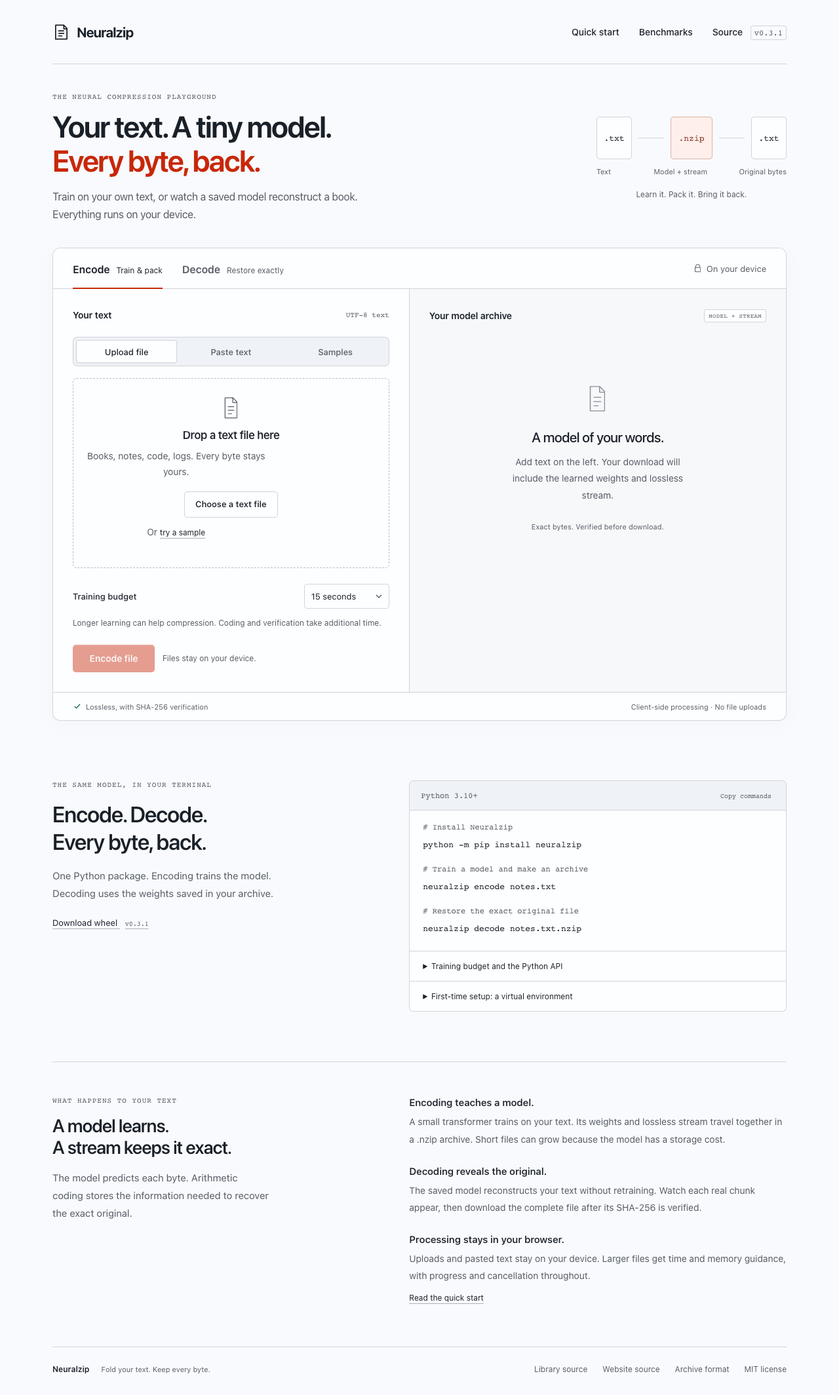
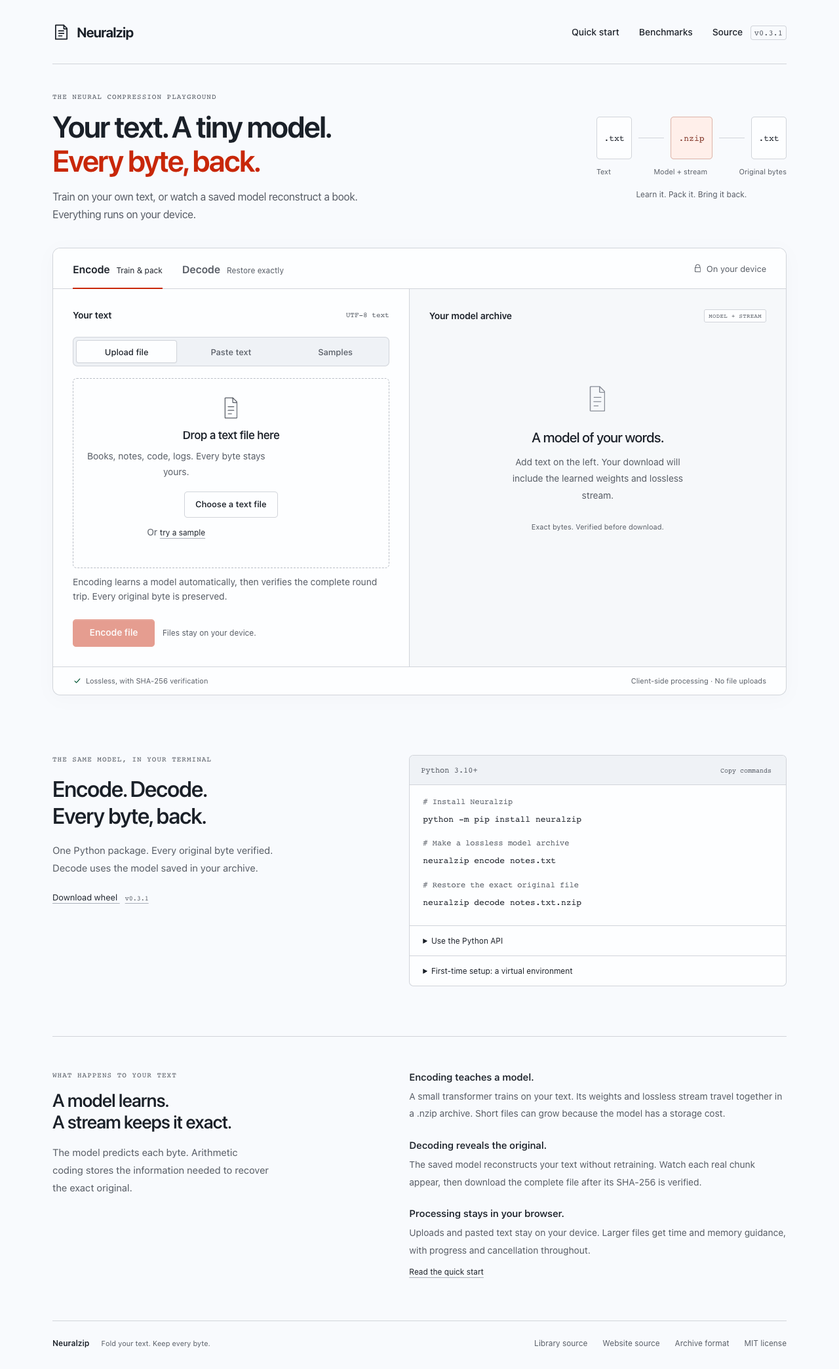
Replace browser training budgets with automatic convergence

diff --git a/app/docs/page.jsx b/app/docs/page.jsx
@@ -3,5 +3,5 @@ import { asset, WHEEL } from '../../lib/paths';
 
 export const metadata = { title: 'Quick start · Neuralzip' };
 export default function Docs() {
-  return <><Header/><main className="page-width docs-content" id="workspace"><p className="eyebrow">QUICK START</p><h1>One model archive.<br/>Two commands.</h1><p className="docs-lead">Neuralzip compresses text using a model trained on that text. Encoding trains and writes an archive; decoding uses its saved weights to restore the original bytes.</p><section><h2>Install once</h2><p>Python 3.10 or newer is required. Create a virtual environment to keep dependencies separate:</p><pre><code>{'python3 -m venv .venv\nsource .venv/bin/activate'}</code></pre><p>On Windows PowerShell, use <code>py -m venv .venv</code> and <code>{'.\\.venv\\Scripts\\Activate.ps1'}</code>.</p><p><a className="text-button" href={asset('downloads/' + WHEEL)} download>Download the Python wheel</a>, or install directly from PyPI:</p><pre><code>{`python -m pip install neuralzip`}</code></pre><p>The installation includes PyTorch, NumPy and the embedded decoding engine. Python defaults to one CPU training thread and one coding worker. Use --device mps or --device cuda to opt into GPU training. Training runs in its own process, releasing its memory before coding.</p></section><section><h2>Encode and decode</h2><pre><code>{'neuralzip encode notes.txt\nneuralzip decode notes.txt.nzip'}</code></pre><p>Encoding creates <code>notes.txt.nzip</code>. Decoding restores the original name, or uses <code>notes.restored.txt</code> if it already exists. Existing files stay safe.</p><p>Encoding uses 60 seconds of training by default, followed by stream encoding and a verification decode. Set a different budget:</p><pre><code>{'neuralzip encode notes.txt --seconds 120\nneuralzip decode notes.txt.nzip -o recovered.txt'}</code></pre></section><section><h2>Watch the work</h2><p>Both the terminal and browser show the current stage, elapsed time and completed chunks. The terminal heartbeat keeps moving during long native operations. Cancel with Ctrl+C in the terminal or the Cancel button in the browser.</p></section><section><h2>Use Python directly</h2><pre><code>{'from neuralzip import encode, decode, encode_file, decode_file\n\narchive = encode(b"Keep every byte.", seconds=60)\nassert decode(archive) == b"Keep every byte."\n\npath = encode_file("notes.txt")\nrestored = decode_file(path)'}</code></pre></section><section><h2>Paste text or choose a sample</h2><p>Under Encode, choose Paste text to type or paste into the editor. The counter measures UTF-8 bytes. Upload an existing text file when its original byte encoding and line endings matter. The Samples tab includes short classics, structured logs and multilingual text.</p></section><section><h2>Watch a model reconstruct a book</h2><p>Under Decode, upload an archive or choose a title from Book library. Enable Watch reconstruction, then choose Decode archive. Actual decoded chunks appear in order. Pause and resume between chunks, adjust the reveal speed, or follow the latest text. The full output is verified before the download becomes available.</p></section><section><h2>What is inside?</h2><p>A .nzip archive contains model weights, an arithmetic-coded stream, settings and the original SHA-256 checksum. The stream carries the information needed to correct the model&apos;s uncertainty. Restored bytes are checked before saving. There is no gzip encoding option or automatic conventional fallback.</p><p>Very short or difficult text can produce a larger model archive. You still receive the actual model archive, with its real size reported.</p></section><section><h2>File sizes and runtime</h2><div className="table-scroll" tabIndex="0" aria-label="Implementation limits"><table><thead><tr><th>Operation</th><th>Size and behavior</th></tr></thead><tbody><tr><td>Browser encoding</td><td>Files over 1 MB show time and memory guidance; larger files are allowed</td></tr><tr><td>Python encoding and decoding</td><td>16 MiB</td></tr><tr><td>Browser training budget</td><td>15, 30 or 60 seconds</td></tr><tr><td>Python training budget</td><td>1 to 3,600 seconds</td></tr></tbody></table></div><p>The browser uses a small two-layer transformer. Python uses a four-layer preset. Archives are compatible across both decoders. Browser jobs have no two-minute timeout or fixed 1 MB cutoff. Browser memory, buffer capacity and the archive’s chunk-address space still impose technical limits. Python 0.3.1 retains its 16 MiB bound. Large browser archives can therefore exceed that Python decoder’s supported size.</p><a className="text-button" href={asset('FORMAT.txt')}>Read the archive specification</a></section></main><Footer/></>;
+  return <><Header/><main className="page-width docs-content" id="workspace"><p className="eyebrow">QUICK START</p><h1>One model archive.<br/>Two commands.</h1><p className="docs-lead">Neuralzip compresses text using a model trained on that text. Encoding trains and writes an archive; decoding uses its saved weights to restore the original bytes.</p><section><h2>Install once</h2><p>Python 3.10 or newer is required. Create a virtual environment to keep dependencies separate:</p><pre><code>{'python3 -m venv .venv\nsource .venv/bin/activate'}</code></pre><p>On Windows PowerShell, use <code>py -m venv .venv</code> and <code>{'.\\.venv\\Scripts\\Activate.ps1'}</code>.</p><p><a className="text-button" href={asset('downloads/' + WHEEL)} download>Download the Python wheel</a>, or install directly from PyPI:</p><pre><code>{`python -m pip install neuralzip`}</code></pre><p>The installation includes PyTorch, NumPy and the embedded decoding engine. Python defaults to one CPU training thread and one coding worker. Use --device mps or --device cuda to opt into GPU training. Training runs in its own process, releasing its memory before coding.</p></section><section><h2>Encode and decode</h2><pre><code>{'neuralzip encode notes.txt\nneuralzip decode notes.txt.nzip'}</code></pre><p>Encoding creates <code>notes.txt.nzip</code>. Decoding restores the original name, or uses <code>notes.restored.txt</code> if it already exists. Existing files stay safe.</p><p>Encoding learns a model, writes a lossless stream and verifies a complete decode before saving. Restored content is always byte-for-byte identical:</p><pre><code>{'neuralzip encode notes.txt\nneuralzip decode notes.txt.nzip -o recovered.txt'}</code></pre></section><section><h2>Always lossless</h2><p>There is no accuracy or quality setting. Browser training stops automatically when learning stabilizes, not when a timer expires. The arithmetic-coded stream preserves the information needed to restore every byte, even when model predictions are imperfect. A full verification decode must match the original SHA-256 before you receive an archive.</p></section><section><h2>Watch the work</h2><p>Both the terminal and browser show the current stage, elapsed time and completed chunks. The terminal heartbeat keeps moving during long native operations. Cancel with Ctrl+C in the terminal or the Cancel button in the browser.</p></section><section><h2>Use Python directly</h2><pre><code>{'from neuralzip import encode, decode, encode_file, decode_file\n\narchive = encode(b"Keep every byte.")\nassert decode(archive) == b"Keep every byte."\n\npath = encode_file("notes.txt")\nrestored = decode_file(path)'}</code></pre></section><section><h2>Paste text or choose a sample</h2><p>Under Encode, choose Paste text to type or paste into the editor. The counter measures UTF-8 bytes. Upload an existing text file when its original byte encoding and line endings matter. The Samples tab includes short classics, structured logs and multilingual text.</p></section><section><h2>Watch a model reconstruct a book</h2><p>Under Decode, upload an archive or choose a title from Book library. Enable Watch reconstruction, then choose Decode archive. Actual decoded chunks appear in order. Pause and resume between chunks, adjust the reveal speed, or follow the latest text. The full output is verified before the download becomes available.</p></section><section><h2>What is inside?</h2><p>A .nzip archive contains model weights, an arithmetic-coded stream, settings and the original SHA-256 checksum. The stream carries the information needed to correct the model&apos;s uncertainty. Restored bytes are checked before saving. There is no gzip encoding option or automatic conventional fallback.</p><p>Very short or difficult text can produce a larger model archive. You still receive the actual model archive, with its real size reported.</p></section><section><h2>File sizes and runtime</h2><div className="table-scroll" tabIndex="0" aria-label="Implementation limits"><table><thead><tr><th>Operation</th><th>Size and behavior</th></tr></thead><tbody><tr><td>Browser encoding</td><td>Files over 1 MB show time and memory guidance; larger files are allowed</td></tr><tr><td>Python encoding and decoding</td><td>16 MiB</td></tr></tbody></table></div><p>The browser uses a small two-layer transformer. Python uses a four-layer preset. Archives are compatible across both decoders. Browser jobs have no two-minute timeout or fixed 1 MB cutoff. Browser memory, buffer capacity and the archive’s chunk-address space still impose technical limits. Python 0.3.1 retains its 16 MiB bound. Large browser archives can therefore exceed that Python decoder’s supported size.</p><a className="text-button" href={asset('FORMAT.txt')}>Read the archive specification</a></section></main><Footer/></>;
 }

diff --git a/components/Workbench.jsx b/components/Workbench.jsx
@@ -53,7 +53,6 @@ export default function Workbench() {
   const [draft, setDraft] = useState('');
   const [sampleId, setSampleId] = useState('');
   const [metadata, setMetadata] = useState(null);
-  const [seconds, setSeconds] = useState('15');
   const [watch, setWatch] = useState(true);
   const [watchSession, setWatchSession] = useState(0);
   const [paused, setPaused] = useState(false);
@@ -75,7 +74,7 @@ export default function Workbench() {
   const ready = pasted ? draft.length > 0 : !!file;
   const inputBytes = pasted ? pastedBytes : file?.size || 0;
   const restoredBytes = !encode && metadata ? metadata.size : inputBytes;
-  const predicted = estimate(encode ? inputBytes : restoredBytes, action, seconds, !encode && watch, metadata?.chunks || 0);
+  const predicted = estimate(encode ? inputBytes : restoredBytes, action, !encode && watch, metadata?.chunks || 0);
   const large = inputBytes > 1_000_000 || restoredBytes > 1_000_000;
   const lengthy = predicted.high > 120;
 
@@ -182,7 +181,7 @@ export default function Workbench() {
       };
       // Structured-clone the File handle. Its contents are read in the worker,
       // rather than allocating a second complete input buffer on the UI thread.
-      instance.postMessage({ action, name: selected.name, file: selected, seconds: Number(seconds), watch: !encode && watch });
+      instance.postMessage({ action, name: selected.name, file: selected, watch: !encode && watch });
     } catch (e) { setBusy(false); setProgress(null); setWatchSession(0); setError(e.message); }
   }
 
@@ -209,8 +208,8 @@ export default function Workbench() {
         {pasted && <div className="paste-panel"><label className="sr-only" htmlFor="paste-text">Text to encode</label><textarea id="paste-text" placeholder="Paste or type your text here…" value={draft} disabled={busy} spellCheck={false} aria-describedby="paste-note paste-size" onChange={event => { setDraft(event.target.value); if (result || error) clearResult(); }}/><div className="paste-meta"><span>pasted-text.txt</span><span id="paste-size">{format(pastedBytes)} · UTF-8</span></div><p id="paste-note">Encoded as UTF-8. Upload an existing file to preserve its original bytes and line endings.</p></div>}
         {source === 'samples' && <div className="sample-library"><p className="sample-intro">{encode ? 'Choose text to train a new model on your device.' : 'Finished models, ready to reconstruct. No training needed.'}</p><div className="sample-list" role="group" aria-label={encode ? 'Encoding samples' : 'Book samples'}>{samples.map(sample => <button key={sample.id} className="sample-row" disabled={busy} aria-pressed={sampleId === sample.id} onClick={() => loadSample(sample)}><span className="sample-book-icon"><DocumentIcon/></span><span className="sample-copy"><strong>{sample.title}</strong><span>{sample.author}{sample.detail ? ` · ${sample.detail}` : ''}</span></span><span className="sample-size">{sample.bytes ? format(sample.bytes) : 'Small text'}{sample.restoredBytes ? <small>{format(sample.restoredBytes)} restored</small> : null}</span></button>)}</div></div>}
         {!pasted && file && <div className="selected-file"><div><span className="selected-check" aria-hidden="true">✓</span><div><strong id="file-name">{file.name}</strong><span>{format(file.size)}{metadata ? ` · ${format(metadata.size)} restored` : ''}</span></div></div><button className="icon-button" disabled={busy} aria-label="Remove selected file" onClick={() => { setFile(null); setMetadata(null); setSampleId(''); clearResult(); if (fileInput.current) fileInput.current.value = ''; }}>×</button></div>}
-        {encode ? <div className="encode-options"><label htmlFor="training-budget">Training budget</label><select id="training-budget" disabled={busy} value={seconds} onChange={event => setSeconds(event.target.value)}><option value="15">15 seconds</option><option value="30">30 seconds</option><option value="60">60 seconds</option></select><p>Longer learning can help compression. Coding and verification take additional time.</p></div> : <div className="watch-option"><label><input type="checkbox" checked={watch} disabled={busy} onChange={event => setWatch(event.target.checked)}/><span><strong>Watch reconstruction</strong><small>See actual decoded chunks appear one at a time.</small></span></label></div>}
-        {ready && !busy && <div className={`job-estimate${large || lengthy ? ' estimate-warning' : ''}`} id="job-estimate"><strong>{large ? 'A larger experiment' : lengthy ? 'This may take a while' : 'Estimated time'}<span>{predicted.label}</span></strong><p>{large || lengthy ? 'Large jobs can take many minutes and use more browser memory. Keep this tab open; cancel whenever you need to.' : 'A rough, device-dependent estimate. Progress will refine it as work completes.'}</p>{encode && inputBytes > (16 << 20) && <p>Archives restoring more than 16 MiB currently need this browser decoder; Python 0.3.1 supports up to 16 MiB.</p>}</div>}
+        {encode ? <p className="method-note automatic-learning">Encoding learns a model automatically, then verifies the complete round trip. Every original byte is preserved.</p> : <div className="watch-option"><label><input type="checkbox" checked={watch} disabled={busy} onChange={event => setWatch(event.target.checked)}/><span><strong>Watch reconstruction</strong><small>See actual decoded chunks appear one at a time.</small></span></label></div>}
+        {ready && !busy && <div className={`job-estimate${large || lengthy ? ' estimate-warning' : ''}`} id="job-estimate"><strong>{large ? 'A larger experiment' : lengthy ? 'This may take a while' : encode ? 'Estimated coding time' : 'Estimated time'}<span>{predicted.label}</span></strong><p>{encode ? 'Coding estimate only. Automatic learning finishes when it stabilizes, with no time cutoff. Every byte is verified.' : 'A rough, device-dependent estimate. Progress will refine it as work completes.'}</p>{(large || lengthy) && <p>Large jobs can take many minutes and use more browser memory. Keep this tab open; cancel whenever you need to.</p>}{encode && inputBytes > (16 << 20) && <p>Archives restoring more than 16 MiB currently need this browser decoder; Python 0.3.1 supports up to 16 MiB.</p>}</div>}
         <div className="action-row"><button className="button primary run-button" disabled={busy || !ready} onClick={runJob}>{busy ? encode ? 'Encoding…' : 'Decoding…' : encode ? 'Encode file' : 'Decode archive'}</button>{busy && <button className="button secondary" onClick={cancel}>Cancel</button>}<span>{busy ? 'You can cancel at any time.' : 'Files stay on your device.'}</span></div>
         {error && <div className="error-message" id="error-message" role="alert">{error}</div>}
       </div>

diff --git a/src/neural.js b/src/neural.js
@@ -1,5 +1,6 @@
 // Loaded on demand inside a worker. Training stays on the visitor's device.
 import * as tf from '@tensorflow/tfjs';
+import { CHECK_EVERY, TrainingConvergence } from '../lib/training-policy';
 
 const D = 24, H = 1, F = 72, LAYERS = 2, CHUNK = 60, T = CHUNK + 3;
 const bits = new DataView(new ArrayBuffer(4));
@@ -14,8 +15,7 @@ const concat = parts => {
   let pos = 0; for (const x of parts) { out.set(x, pos); pos += x.length; } return out;
 };
 
-export async function train(bytes, seconds, onProgress) {
-  if (!Number.isFinite(seconds) || seconds <= 0 || seconds > 120) throw new Error('Choose a training budget up to 120 seconds.');
+export async function train(bytes, onProgress) {
   onProgress({ stage: 'preparing', progress: 0 });
   try { await tf.setBackend('webgl'); } catch { await tf.setBackend('cpu'); }
   await tf.ready();
@@ -68,7 +68,9 @@ export async function train(bytes, seconds, onProgress) {
   };
   const nChunks = Math.ceil(bytes.length / CHUNK), batch = Math.min(8, nChunks);
   const opt = tf.train.adam(0.003), started = performance.now();
-  let steps = 0, lossValue = 8, last = -1000;
+  let steps = 0, lossValue = 8, last = -1000, bestWeights = null;
+  const convergence = new TrainingConvergence();
+  let finished = false;
   try {
     do {
       const inputs = new Int32Array(batch * T), targets = new Int32Array(batch * T), weights = new Float32Array(batch * T);
@@ -81,19 +83,40 @@ export async function train(bytes, seconds, onProgress) {
           if (j < length - 1) inputs[b * T + 4 + j] = bytes[c * CHUNK + j];
         }
       }
-      const loss = opt.minimize(() => tf.tidy(() => {
-        const x = tf.tensor2d(inputs, [batch, T], 'int32');
-        const labels = tf.oneHot(tf.tensor1d(targets, 'int32'), 257);
-        return tf.losses.softmaxCrossEntropy(labels, forward(x).reshape([-1, 257]), tf.tensor1d(weights));
-      }), true, Object.values(vars));
+      const objective = (sampleInputs, sampleTargets, sampleWeights) => tf.tidy(() => {
+        const x = tf.tensor2d(sampleInputs, [batch, T], 'int32');
+        const labels = tf.oneHot(tf.tensor1d(sampleTargets, 'int32'), 257);
+        return tf.losses.softmaxCrossEntropy(labels, forward(x).reshape([-1, 257]), tf.tensor1d(sampleWeights));
+      });
+      const loss = opt.minimize(() => objective(inputs, targets, weights), true, Object.values(vars));
       lossValue = (await loss.data())[0] / Math.LN2; loss.dispose(); steps++;
+      if (steps % CHECK_EVERY === 0) {
+        const fixedInputs = new Int32Array(batch * T), fixedTargets = new Int32Array(batch * T), fixedWeights = new Float32Array(batch * T);
+        for (let b = 0; b < batch; b++) {
+          const c = Math.floor(b * nChunks / batch), length = Math.min(CHUNK, bytes.length - c * CHUNK);
+          fixedInputs.set([256, c >>> 16, (c >>> 8) & 255, c & 255], b * T);
+          for (let j = 0; j < length; j++) {
+            fixedTargets[b * T + 3 + j] = bytes[c * CHUNK + j]; fixedWeights[b * T + 3 + j] = 1;
+            if (j < length - 1) fixedInputs[b * T + 4 + j] = bytes[c * CHUNK + j];
+          }
+        }
+        const score = objective(fixedInputs, fixedTargets, fixedWeights);
+        const measured = (await score.data())[0] / Math.LN2; score.dispose();
+        const status = convergence.observe(measured);
+        if (status.improved) {
+          if (bestWeights) Object.values(bestWeights).forEach(tensor => tensor.dispose());
+          bestWeights = Object.fromEntries(Object.entries(vars).map(([name, value]) => [name, value.clone()]));
+        }
+        finished = status.done;
+      }
       const elapsed = (performance.now() - started) / 1000;
-      if (elapsed - last > 0.4) {
-        onProgress({ stage: 'training', progress: Math.min(1, elapsed / seconds), seconds: elapsed, steps, bitsPerByte: lossValue });
+      if (elapsed - last > 0.4 || finished) {
+        onProgress({ stage: 'training', elapsedSeconds: elapsed, steps, bitsPerByte: lossValue });
         last = elapsed;
       }
       await tf.nextFrame();
-    } while (performance.now() - started < seconds * 1000);
+    } while (!finished);
+    if (bestWeights) for (const [name, value] of Object.entries(vars)) value.assign(bestWeights[name]);
     let qOffset = 0, scaleOffset = 0, bfOffset = 0;
     for (const [name, variable] of Object.entries(vars)) {
       const data = await variable.data(), shape = variable.shape, numel = data.length;
@@ -120,6 +143,7 @@ export async function train(bytes, seconds, onProgress) {
       meta: { book_id: 0, chunk_len: CHUNK, n_chunks: nChunks, total_len: bytes.length, sha256: '' },
       tensors, fixes: [], weights_b64: b64(concat(bfParts)), qdata_b64: b64(concat(qParts)), scales_b64: b64(concat(scaleParts)) };
   } finally {
+    if (bestWeights) Object.values(bestWeights).forEach(tensor => tensor.dispose());
     opt.dispose(); Object.values(vars).forEach(v => v.dispose());
     cosine.dispose(); sine.dispose(); mask.dispose();
   }

diff --git a/components/Install.jsx b/components/Install.jsx
@@ -2,6 +2,13 @@ import CopyButton from './CopyButton';
 import { asset, WHEEL } from '../lib/paths';
 
 export default function Install() {
-  const commands = `python -m pip install neuralzip\nneuralzip encode notes.txt\nneuralzip decode notes.txt.nzip`;
-  return <section className="python-section page-width" id="python" aria-labelledby="python-title"><div><p className="eyebrow">THE SAME MODEL, IN YOUR TERMINAL</p><h2 id="python-title">Encode. Decode.<br/>Every byte, back.</h2><p>One Python package. Encoding trains the model.<br/>Decoding uses the weights saved in your archive.</p><a className="text-button download-link" href={asset('downloads/' + WHEEL)} download>Download wheel <span>v0.3.1</span></a></div><div className="terminal"><div className="terminal-header"><span>Python 3.10+</span><CopyButton text={commands}/></div><div className="terminal-code"><p className="terminal-comment"># Install Neuralzip</p><code>python -m pip install neuralzip</code><p className="terminal-comment"># Train a model and make an archive</p><code>neuralzip encode notes.txt</code><p className="terminal-comment"># Restore the exact original file</p><code>neuralzip decode notes.txt.nzip</code></div><details className="terminal-more"><summary>Training budget and the Python API</summary><code>neuralzip encode notes.txt --seconds 120</code><pre><code>{'from neuralzip import encode, decode\n\narchive = encode(b"Keep every byte.", seconds=60)\noriginal = decode(archive)'}</code></pre><p>The time budget covers training. Stream encoding and verification take additional time.</p></details><details className="terminal-more"><summary>First-time setup: a virtual environment</summary><p>macOS or Linux:</p><code>python3 -m venv .venv<br/>source .venv/bin/activate</code><p>Windows PowerShell:</p><code>{'py -m venv .venv'}<br/>{'.\\.venv\\Scripts\\Activate.ps1'}</code><p>Then run the install command above. Encoding requires PyTorch; the package installs it for you.</p></details></div></section>;
+  const commands = 'python -m pip install neuralzip\nneuralzip encode notes.txt\nneuralzip decode notes.txt.nzip';
+  return <section className="python-section page-width" id="python" aria-labelledby="python-title">
+    <div><p className="eyebrow">THE SAME MODEL, IN YOUR TERMINAL</p><h2 id="python-title">Encode. Decode.<br/>Every byte, back.</h2><p>One Python package. Every original byte verified.<br/>Decode uses the model saved in your archive.</p><a className="text-button download-link" href={asset('downloads/' + WHEEL)} download>Download wheel <span>v0.3.1</span></a></div>
+    <div className="terminal"><div className="terminal-header"><span>Python 3.10+</span><CopyButton text={commands}/></div>
+      <div className="terminal-code"><p className="terminal-comment"># Install Neuralzip</p><code>python -m pip install neuralzip</code><p className="terminal-comment"># Make a lossless model archive</p><code>neuralzip encode notes.txt</code><p className="terminal-comment"># Restore the exact original file</p><code>neuralzip decode notes.txt.nzip</code></div>
+      <details className="terminal-more"><summary>Use the Python API</summary><pre><code>{'from neuralzip import encode, decode\n\noriginal = b"Keep every byte."\narchive = encode(original)\nassert decode(archive) == original'}</code></pre></details>
+      <details className="terminal-more"><summary>First-time setup: a virtual environment</summary><p>macOS or Linux:</p><code>python3 -m venv .venv<br/>source .venv/bin/activate</code><p>Windows PowerShell:</p><code>{'py -m venv .venv'}<br/>{'.\\.venv\\Scripts\\Activate.ps1'}</code><p>Then run the install command above. The package installs the training dependencies for you.</p></details>
+    </div>
+  </section>;
 }

diff --git a/tests/playground.spec.js b/tests/playground.spec.js
@@ -32,7 +32,7 @@ test('real training of pasted text restores exactly in Python with no remote req
   await expect(page.locator('#progress-detail')).toContainText('Elapsed');
   const initial = await page.locator('#progress-detail').textContent();
   await expect.poll(() => page.locator('#progress-detail').textContent()).not.toBe(initial);
-  await expect(page.locator('#output-result')).toBeVisible({ timeout: 90000 });
+  await expect(page.locator('#output-result')).toBeVisible({ timeout: 300000 });
   await expect(page.locator('#result-note')).toContainText('Model overhead');
   const output = await downloaded(page, info);
   expect(output.bytes.subarray(0,8).toString()).toBe('NEURZIP1');
@@ -76,6 +76,8 @@ test('ordinary decoding works with watch disabled', async ({ page }, info) => {
 
 test('pasted UTF-8 byte counts and large-file guidance impose no 1 MB cutoff', async ({ page }) => {
   await page.goto('/');
+  await expect(page.locator('#training-budget')).toHaveCount(0);
+  await expect(page.getByText('Training budget', { exact: true })).toHaveCount(0);
   await page.getByRole('button', { name: 'Paste text', exact: true }).click();
   await page.getByLabel('Text to encode', { exact: true }).fill('नमस्ते 🌍');
   await expect(page.locator('#paste-size')).toContainText(Buffer.byteLength('नमस्ते 🌍').toLocaleString()+' B');

diff --git a/src/worker.js b/src/worker.js
@@ -69,7 +69,7 @@ async function restoreNeural(header, payload, stage = 'decoding', watch = false)
   return out;
 }
 
-async function run({ action, file, buffer, name, seconds = 15, watch = false }) {
+async function run({ action, file, buffer, name, watch = false }) {
   const started = performance.now();
   send({ type: 'progress', stage: 'reading', progress: 0 });
   if (action === 'encode' && file?.size > 60 * MAX_CHUNKS) {
@@ -109,7 +109,7 @@ async function run({ action, file, buffer, name, seconds = 15, watch = false }) 
   } else {
     send({ type: 'progress', stage: 'preparing', progress: 0 });
     const { train } = await import('./neural.js');
-    const pkg = await train(input, seconds, event => send({ type: 'progress', ...event }));
+    const pkg = await train(input, event => send({ type: 'progress', ...event }));
     pkg.meta.sha256 = header.sha256;
     const model = D.buildModel(pkg, D.decodeBlobs(pkg));
     const plan = D.segmentPlan(pkg.meta.n_chunks, Math.min(32, pkg.meta.n_chunks)), streams = [];

diff --git a/lib/training-policy.js b/lib/training-policy.js
@@ -1,0 +1,20 @@
+// Stop on learning convergence, never on elapsed time. This affects the model's
+// efficiency only; the arithmetic stream and full verification preserve bytes.
+export const CHECK_EVERY = 16;
+export class TrainingConvergence {
+  constructor() {
+    this.checks = 0;
+    this.best = Infinity;
+    this.history = [];
+  }
+  observe(bitsPerByte) {
+    if (!Number.isFinite(bitsPerByte) || bitsPerByte < 0) throw new Error('Model learning became unstable. No archive was saved.');
+    this.checks++;
+    const improved = bitsPerByte < this.best;
+    this.best = Math.min(this.best, bitsPerByte);
+    this.history.push(this.best);
+    if (this.history.length > 6) this.history.shift();
+    const stable = this.checks >= 8 && this.history.length === 6 && this.history[0] - this.best < 0.02;
+    return { improved, done: this.checks >= 8 && (this.best <= 0.01 || stable), best: this.best };
+  }
+}

diff --git a/lib/format.js b/lib/format.js
@@ -9,10 +9,9 @@ function duration(seconds) {
   if (seconds < 3600) return `${Math.ceil(seconds / 60)} min`;
   return `${(seconds / 3600).toFixed(1)} hr`;
 }
-export function estimate(bytes, action, seconds, watch = false, chunks = 0, pace = 40) {
-  const training = action === 'encode' ? Number(seconds) : 0;
+export function estimate(bytes, action, watch = false, chunks = 0, pace = 40) {
   const pacing = watch && chunks ? chunks * pace / 1000 : 0;
-  const low = training + bytes / (action === 'encode' ? 12000 : 20000) + pacing;
-  const high = training + bytes / (action === 'encode' ? 2000 : 5000) + pacing + 10;
+  const low = bytes / (action === 'encode' ? 12000 : 20000) + pacing;
+  const high = bytes / (action === 'encode' ? 2000 : 5000) + pacing + 10;
   return { low, high, label: duration(low) === duration(high) ? `About ${duration(high)}` : `${duration(low)} to ${duration(high)}` };
 }

diff --git a/playwright.config.js b/playwright.config.js
@@ -1,6 +1,6 @@
 import { defineConfig } from '@playwright/test';
 export default defineConfig({
-  testDir: './tests', timeout: 120000, workers: 1,
+  testDir: './tests', timeout: 360000, workers: 1,
   use: { baseURL: 'http://127.0.0.1:4173', channel: 'chrome',
     launchOptions: { args: ['--use-angle=swiftshader', '--enable-webgl', '--enable-unsafe-swiftshader'] } },
   webServer: { command: 'npm run preview -- --port 4173', url: 'http://127.0.0.1:4173', reuseExistingServer: !process.env.CI },

diff --git a/README.md b/README.md
@@ -18,7 +18,7 @@ npm run build
 npm run preview
 ```
 
-`out/` contains the deployable website. No Python, backend, API key or external model is required to build or use the site. TensorFlow.js loads only when training begins; deterministic restoration runs in a single worker. Upload UTF-8 files, paste text, or choose an encoding sample. Decode includes a book library and a watch reader with actual chunk-by-chunk reconstruction, pause/resume and reveal speed. Inputs over 1 MB show guidance instead of a hard cutoff; there is no total-job timeout. Browser memory and archive-format capacity still bound practical sizes. Short inputs may grow because of model overhead. Current complete-archive results and sample models are included.
+`out/` contains the deployable website. No Python, backend, API key or external model is required to build or use the site. TensorFlow.js loads only when training begins; deterministic restoration runs in a single worker. Upload UTF-8 files, paste text, or choose an encoding sample. Decode includes a book library and a watch reader with actual chunk-by-chunk reconstruction, pause/resume and reveal speed. Inputs over 1 MB show guidance instead of a hard cutoff; there is no total-job timeout. Browser memory and archive-format capacity still bound practical sizes. Encoding is always lossless. Browser training ends automatically when learning stabilizes, without a wall-clock cutoff or a user-selected quality setting. Every archive is decoded and verified before download. Short inputs may grow because of model overhead. Current complete-archive results and sample models are included.
 
 ## Host
 

diff --git a/PRODUCT.md b/PRODUCT.md
@@ -10,7 +10,7 @@ People who want to make a text file smaller and restore it later without underst
 
 ## Product Purpose
 
-Neuralzip makes exact text compression approachable. Encoding produces one portable archive. Decoding restores original bytes and verifies them. The browser and Python library share a format. Every nonempty archive stores learned model weights and an arithmetic-coded stream. Explain training time and model overhead directly. Success means someone can complete a round trip without reading a research paper.
+Neuralzip makes exact text compression approachable. Encoding produces one portable archive. Decoding restores original bytes and verifies them. The browser and Python library share a format. Every nonempty archive stores learned model weights and an arithmetic-coded stream. Content recovery is always exact; there is no accuracy or quality choice. Browser learning stops automatically on convergence, never on a time cutoff. Explain model overhead directly. Success means someone can complete a round trip without reading a research paper.
 
 ## Brand Personality
 
